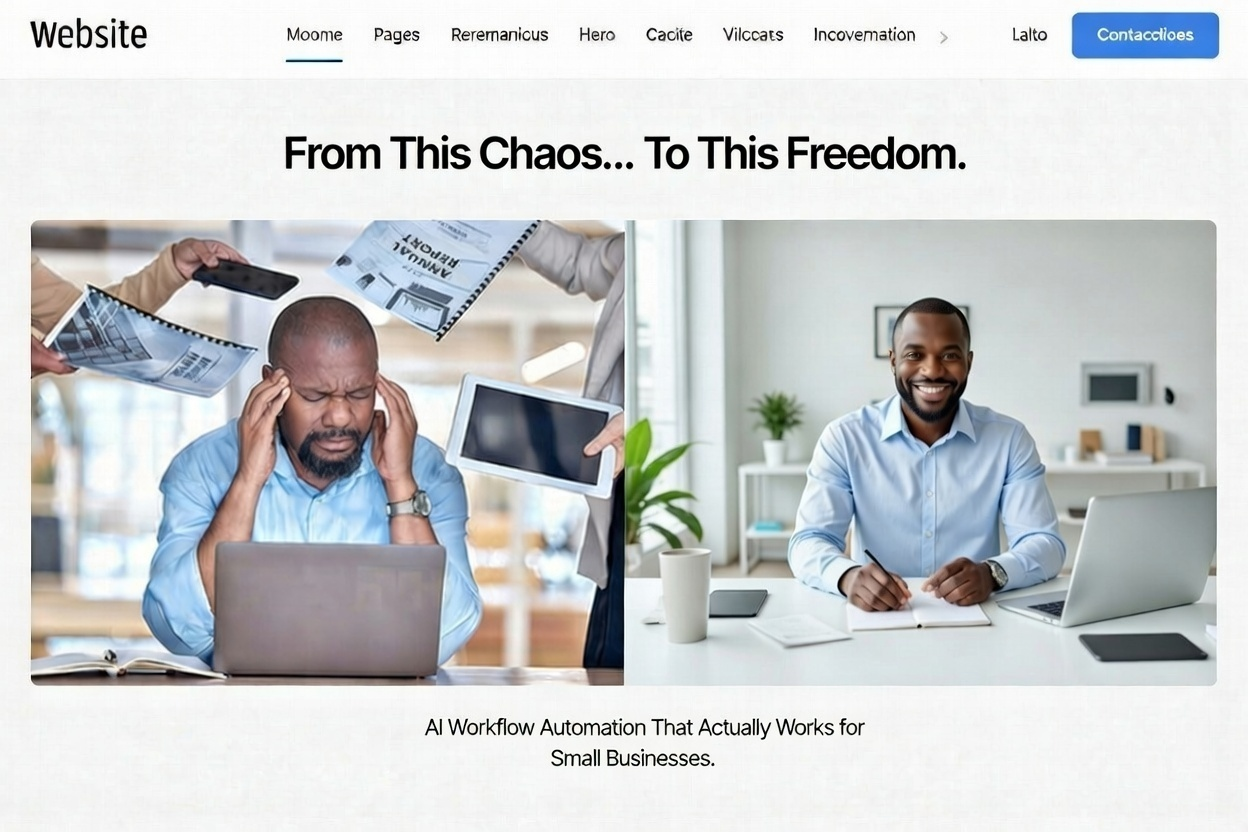
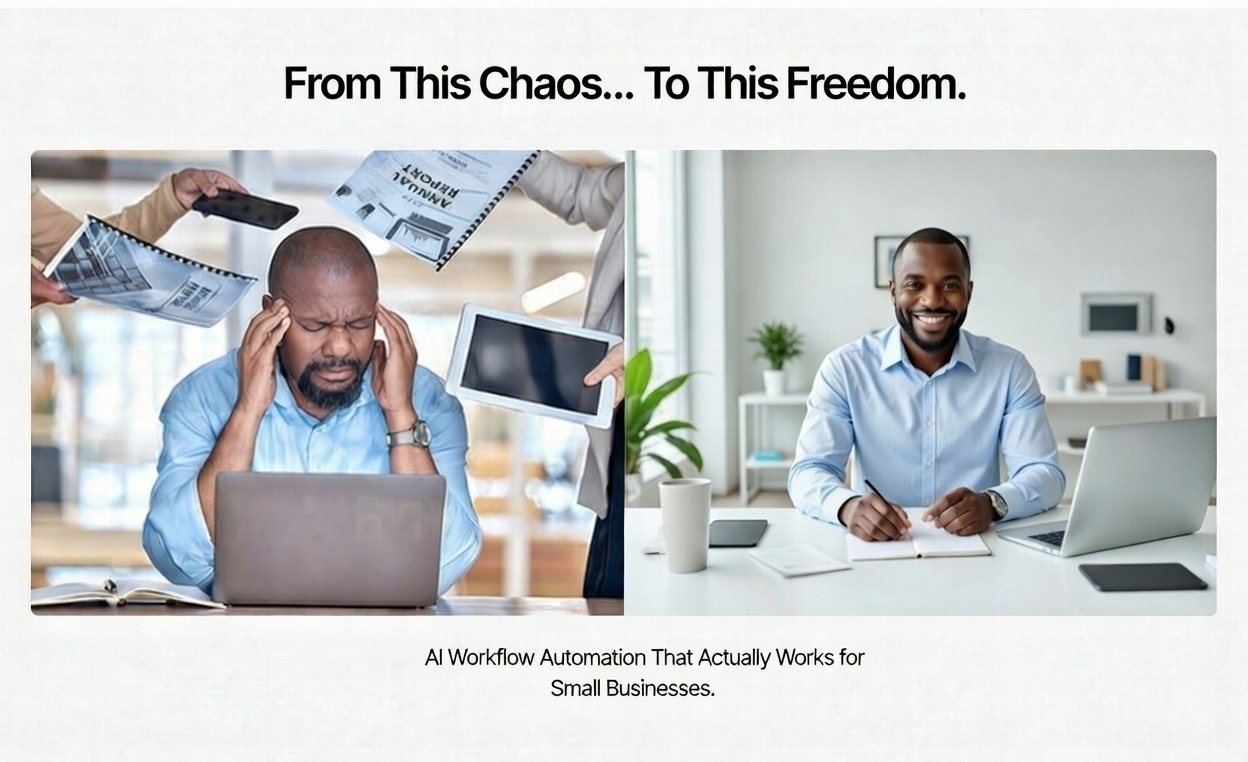
Crop fake website header from hero image
- Remove gibberish navigation bar from top of image
- Update image dimensions in component (1248x762)

diff --git a/components/home/HeroSection.tsx b/components/home/HeroSection.tsx
@@ -19,8 +19,8 @@ export default function HeroSection() {
             <Image
               src="/images/newhhero1.jpg"
               alt="From chaos to freedom - AI workflow automation for small businesses"
-              width={1200}
-              height={675}
+              width={1248}
+              height={762}
               className="rounded-lg shadow-xl mx-auto"
               priority
             />
